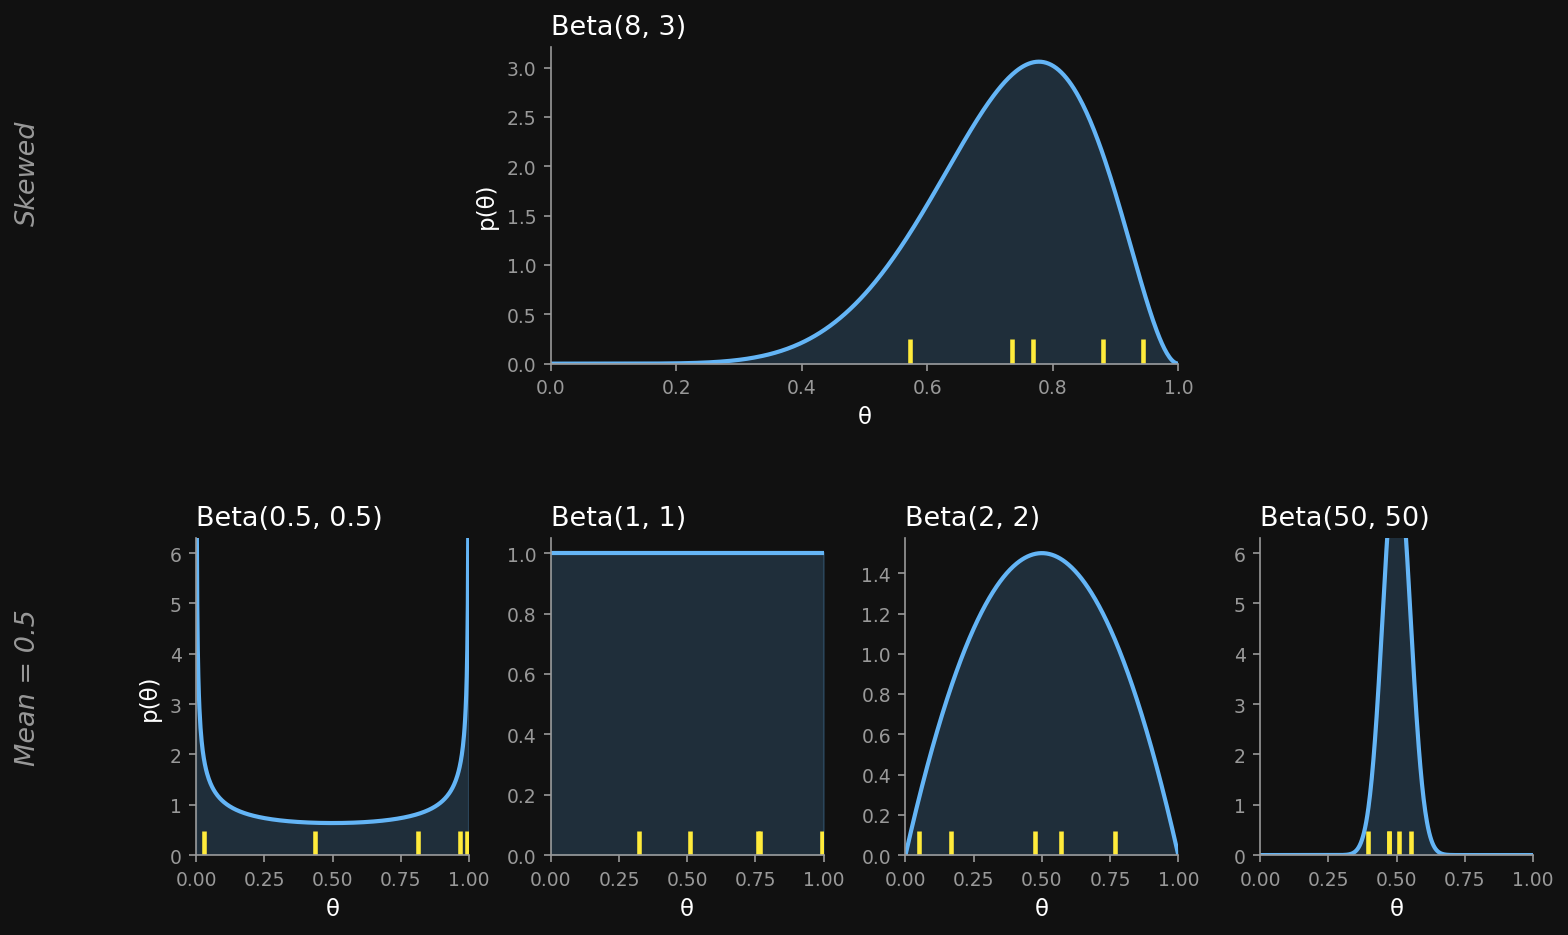
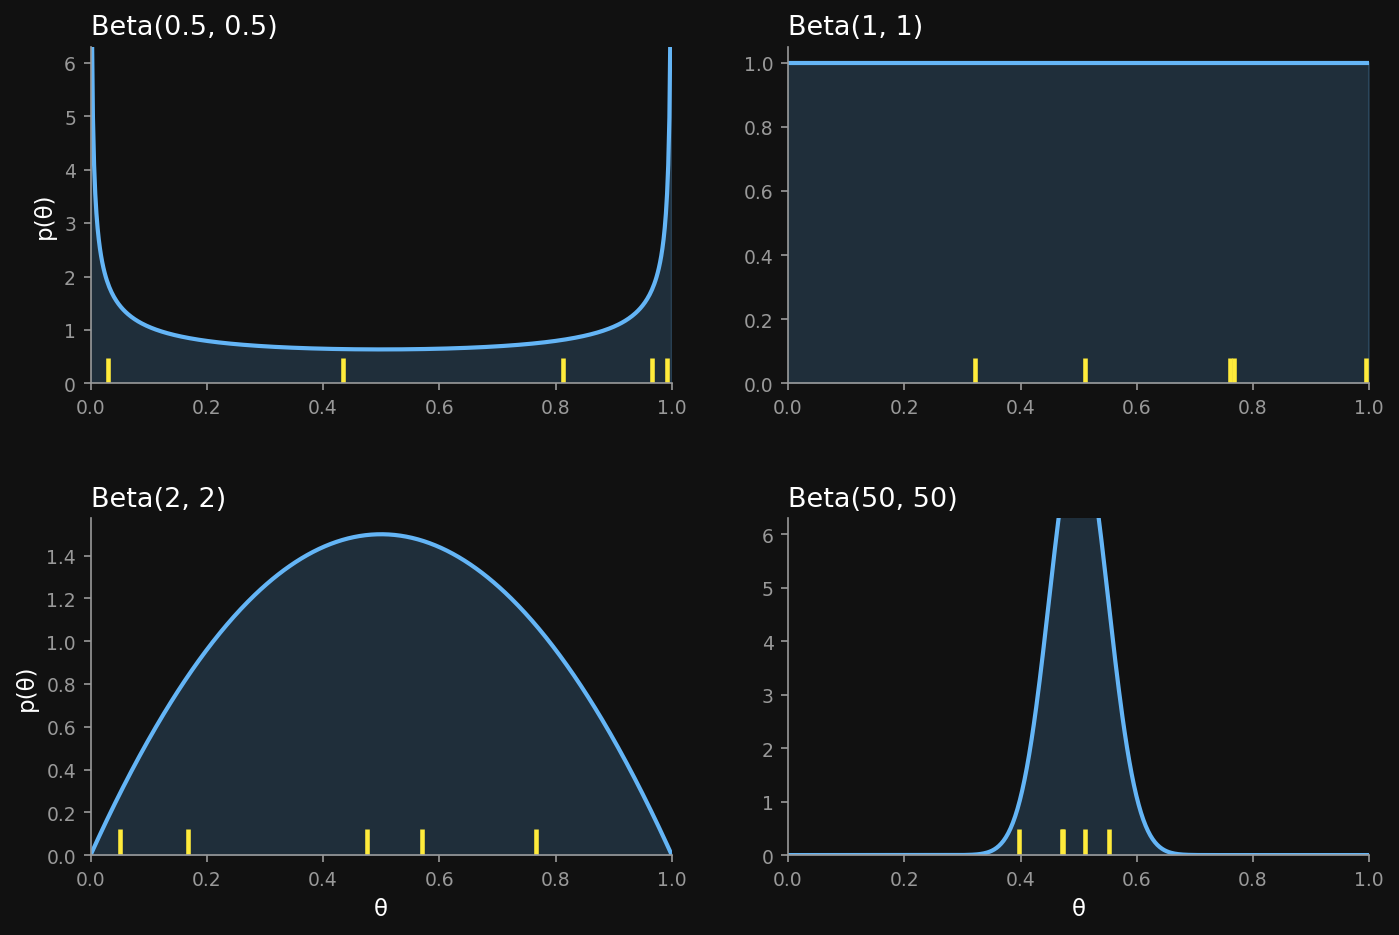
Beta grid: 2×2 with 4 same-mean cases, drop redundant Beta(8,3)
Beta(8, 3) was on both the single-anchor slide AND the grid — repeating
it on the grid diluted the point the grid is supposed to make. Now the
grid is exclusively the 4 α=β cases (μ=0.5), and the single-anchor slide
is the only place Beta(8, 3) appears. Bigger plots, cleaner story:

  Beta(0.5, 0.5)  |  Beta(1, 1)
  Beta(2, 2)      |  Beta(50, 50)

Retitled "Four Betas, same mean — different shapes" and revised the
caption to make the same-mean/different-shape contrast explicit:
"all four have mean 0.5 (because α=β) — but they look completely
different. The α+β dial controls concentration, not location."

diff --git a/scripts/build_beta_plots.py b/scripts/build_beta_plots.py
@@ -130,41 +130,30 @@ def _draw_panel(ax, a: float, b: float, *, x_label: bool, y_label: bool, samples
 
 
 def plot_grid(cases: list[tuple]) -> None:
-    """Render Beta cases on a 2-row grid:
-       Row 1: skew case alone (Beta(8,3)) — non-symmetric, mean ≠ 0.5
-       Row 2: four α=β cases — Beta(0.5,0.5), Beta(1,1), Beta(2,2), Beta(50,50)
-              all with mean 0.5 but very different shapes.
+    """Render the 4 same-mean (α=β, μ=0.5) Betas on a 2×2 grid.
+
+    Beta(8, 3) lives on the previous single-anchor slide and is intentionally
+    omitted here — this grid's whole job is to show that very different
+    Beta shapes can share the same mean.
+
+    Order on the 2×2 grid (ascending α+β = increasing concentration):
+        Beta(0.5, 0.5)  |  Beta(1, 1)
+        Beta(2, 2)      |  Beta(50, 50)
     """
     case_map = {slug: (a, b) for slug, a, b, _ in cases}
+    grid_order = ["beta_ushaped", "beta_uniform", "beta_wide", "beta_narrow"]
 
-    fig = plt.figure(figsize=(11.5, 7), dpi=150, facecolor=BG)
-    gs = fig.add_gridspec(nrows=2, ncols=4, hspace=0.55, wspace=0.30,
-                          height_ratios=[1, 1])
+    fig, axes = plt.subplots(2, 2, figsize=(11, 7), dpi=150, facecolor=BG)
 
-    # Row 1: skew case (Beta(8,3)) — span columns 1-2 (the middle two of 4) so
-    # it sits centered with breathing room either side
-    ax_top = fig.add_subplot(gs[0, 1:3])
-    a, b = case_map["beta_concentrated_high"]
-    _draw_panel(ax_top, a, b, x_label=True, y_label=True,
-                samples_seed=42 + hash("beta_concentrated_high") % 1000)
-
-    # Row 2: four same-mean (μ=0.5) cases in ascending α+β order to show
-    # how concentration changes while the mean stays put.
-    row2_order = ["beta_ushaped", "beta_uniform", "beta_wide", "beta_narrow"]
-    for col, slug in enumerate(row2_order):
+    for i, slug in enumerate(grid_order):
         a, b = case_map[slug]
-        ax = fig.add_subplot(gs[1, col])
-        _draw_panel(ax, a, b,
-                    x_label=True,           # bottom row → all get x label
-                    y_label=(col == 0),     # only leftmost → y label
+        row, col = divmod(i, 2)
+        _draw_panel(axes[row, col], a, b,
+                    x_label=(row == 1),     # bottom row gets θ
+                    y_label=(col == 0),     # left column gets p(θ)
                     samples_seed=42 + (zlib.crc32(slug.encode()) % 1000))
 
-    # Annotation labels for the rows (left margin)
-    fig.text(0.02, 0.76, "Skewed",
-             color=DIM, fontsize=13, fontstyle="italic", rotation=90, va="center")
-    fig.text(0.02, 0.27, "Mean = 0.5",
-             color=DIM, fontsize=13, fontstyle="italic", rotation=90, va="center")
-
+    fig.subplots_adjust(hspace=0.40, wspace=0.20)
     out_path = OUT_DIR / "beta_grid.png"
     fig.savefig(out_path, facecolor=BG, edgecolor="none", bbox_inches="tight")
     plt.close(fig)
